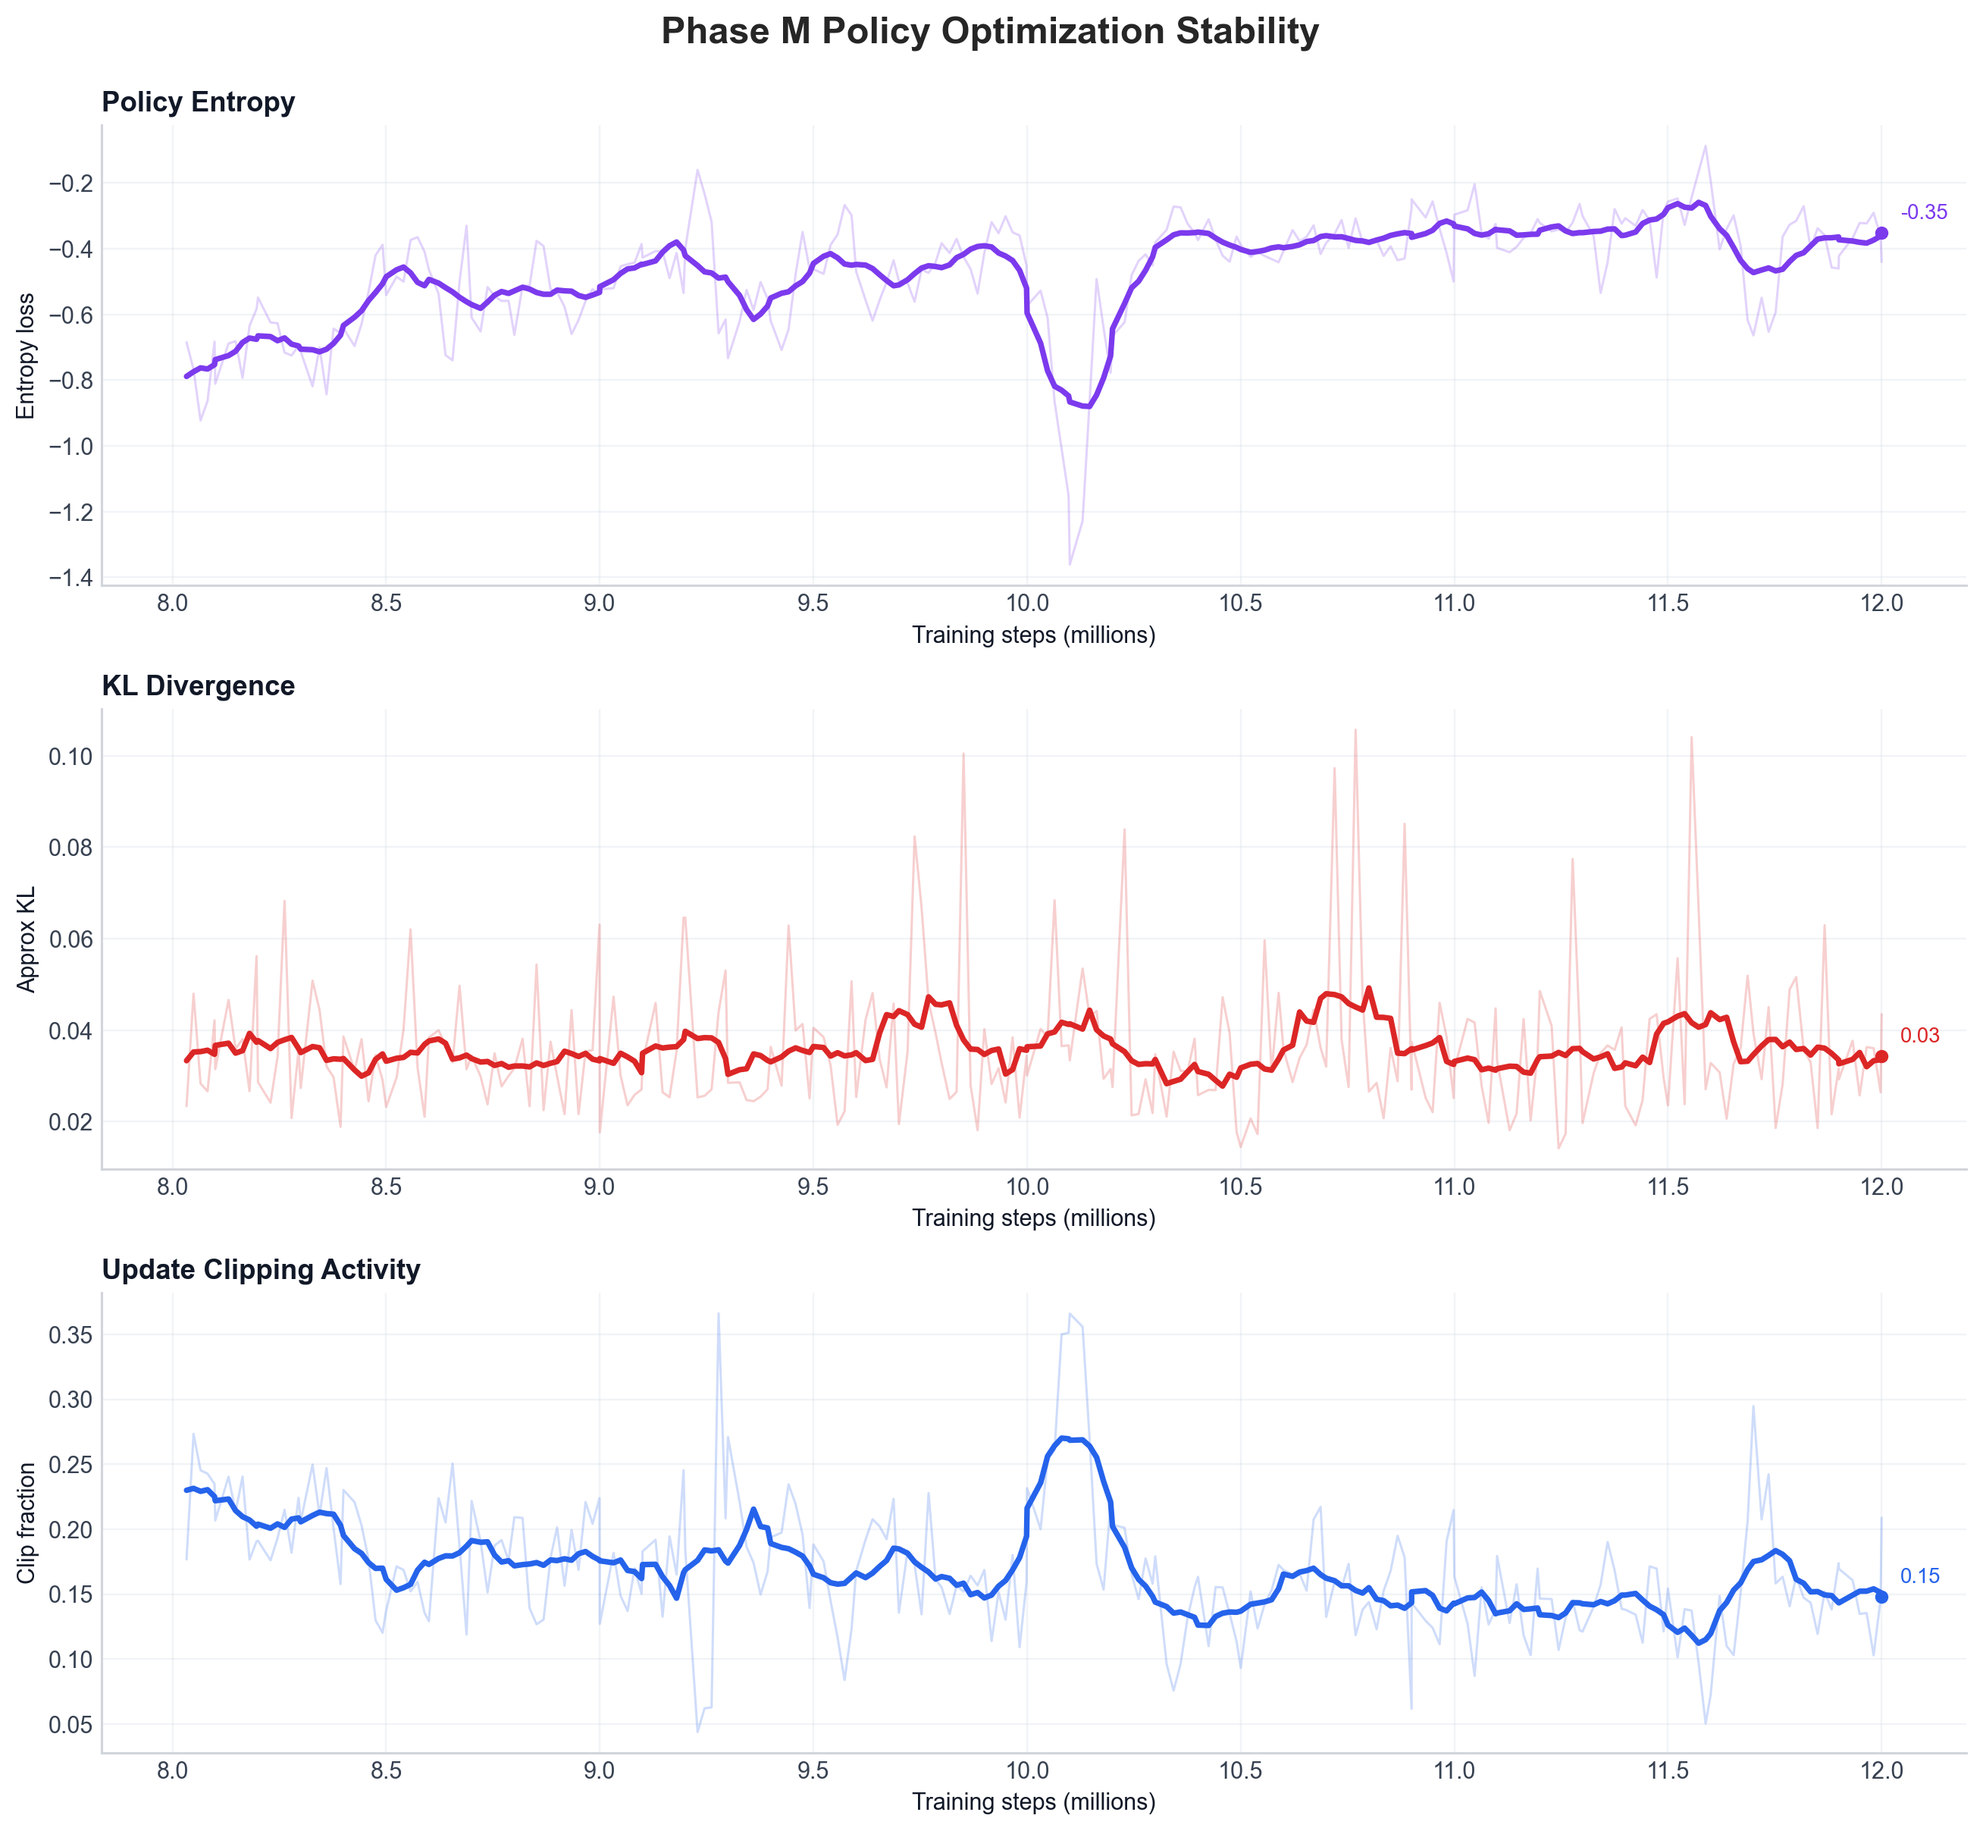
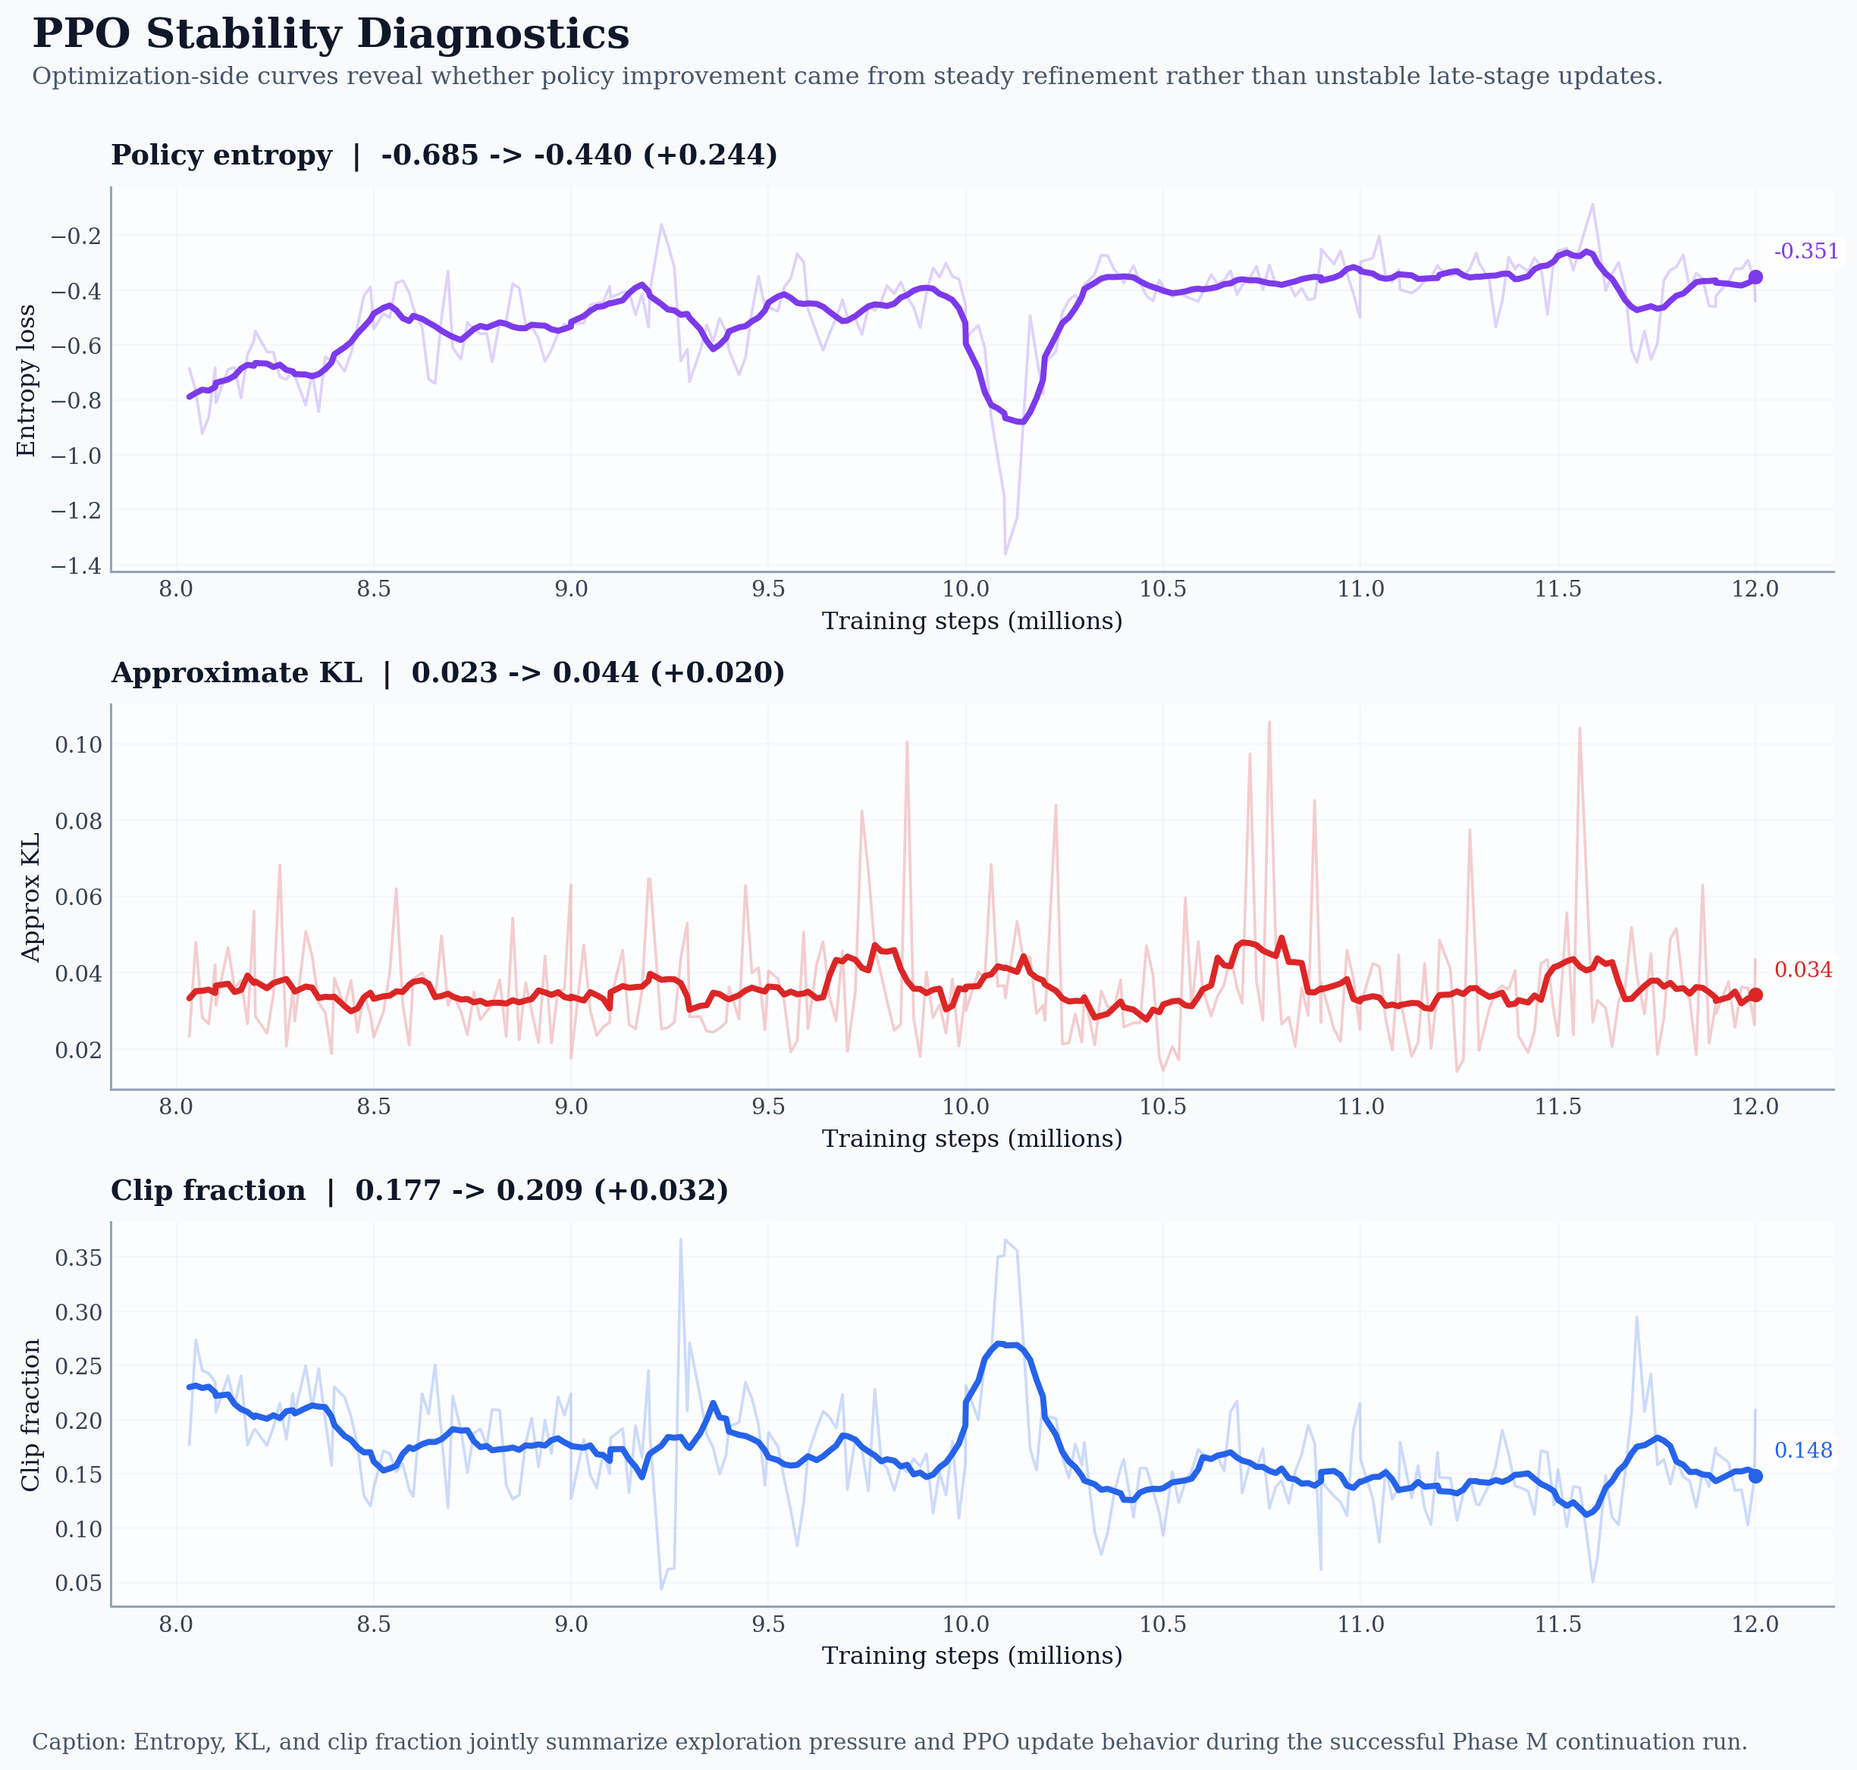
updated the pulled tensorboard graph script to create much more detailed training graphs.

diff --git a/scripts/export_training_graphs.py b/scripts/export_training_graphs.py
@@ -18,6 +18,8 @@ from tensorboard.backend.event_processing.event_accumulator import EventAccumula
 
 DEFAULT_LOGDIR = Path("results/multiseed_s1_M/logs/PPO_0")
 DEFAULT_OUTPUT = Path("training_graphs")
+FIGURE_FACE = "#f8fafc"
+AXES_FACE = "#fcfdff"
 
 
 def parse_args() -> argparse.Namespace:
@@ -61,12 +63,35 @@ def smooth_values(frame: pd.DataFrame, window: int) -> pd.Series:
     return frame["value"].rolling(effective_window, min_periods=1, center=True).mean()
 
 
+def summarize_series(frame: pd.DataFrame) -> tuple[float, float, float, float]:
+    start_step = frame["step_millions"].iloc[0]
+    end_step = frame["step_millions"].iloc[-1]
+    start_value = frame["value"].iloc[0]
+    end_value = frame["value"].iloc[-1]
+    return start_step, end_step, start_value, end_value
+
+
+def format_delta(start_value: float, end_value: float, *, percent: bool = False) -> str:
+    if percent:
+        return f"{end_value - start_value:+.1%}"
+    return f"{end_value - start_value:+.2f}"
+
+
+def add_figure_text(fig: plt.Figure, title: str, subtitle: str, caption: str) -> None:
+    fig.text(0.06, 0.975, title, ha="left", va="top", fontsize=18, fontweight="bold", color="#0f172a")
+    fig.text(0.06, 0.948, subtitle, ha="left", va="top", fontsize=10.5, color="#475569")
+    fig.text(0.06, 0.028, caption, ha="left", va="bottom", fontsize=9.5, color="#475569")
+
+
 def style_axis(ax: plt.Axes, ylabel: str, xlabel: str = "Training steps (millions)") -> None:
     ax.set_ylabel(ylabel)
     ax.set_xlabel(xlabel)
-    ax.grid(True, alpha=0.25)
+    ax.grid(True, alpha=0.22, linewidth=0.8)
     ax.spines["top"].set_visible(False)
     ax.spines["right"].set_visible(False)
+    ax.spines["left"].set_color("#94a3b8")
+    ax.spines["bottom"].set_color("#94a3b8")
+    ax.tick_params(length=0)
 
 
 def plot_scalar(
@@ -79,24 +104,27 @@ def plot_scalar(
     window: int,
     raw_alpha: float = 0.22,
     add_final_label: bool = True,
+    value_format: str = ".2f",
 ) -> None:
     smoothed = smooth_values(frame, window)
-    ax.plot(frame["step_millions"], frame["value"], color=color, alpha=raw_alpha, linewidth=1.0)
-    ax.plot(frame["step_millions"], smoothed, color=color, linewidth=2.4)
-    ax.set_title(title, loc="left", fontsize=12, fontweight="bold")
+    ax.set_facecolor(AXES_FACE)
+    ax.plot(frame["step_millions"], frame["value"], color=color, alpha=raw_alpha, linewidth=1.2)
+    ax.plot(frame["step_millions"], smoothed, color=color, linewidth=2.6)
+    ax.set_title(title, loc="left", fontsize=12, fontweight="bold", pad=10)
     style_axis(ax, ylabel)
 
     if add_final_label:
         final_x = frame["step_millions"].iloc[-1]
         final_y = smoothed.iloc[-1]
-        ax.scatter([final_x], [final_y], color=color, s=22, zorder=3)
+        ax.scatter([final_x], [final_y], color=color, s=28, zorder=3)
         ax.annotate(
-            f"{final_y:.2f}",
+            format(final_y, value_format),
             xy=(final_x, final_y),
-            xytext=(8, 6),
+            xytext=(8, 8),
             textcoords="offset points",
             fontsize=9,
             color=color,
+            bbox={"boxstyle": "round,pad=0.25", "facecolor": "white", "edgecolor": "none", "alpha": 0.9},
         )
 
 
@@ -107,7 +135,7 @@ def require_tags(frames: dict[str, pd.DataFrame], tags: list[str]) -> None:
 
 
 def save_figure(fig: plt.Figure, output_path: Path, dpi: int) -> None:
-    fig.tight_layout()
+    fig.tight_layout(rect=(0.04, 0.06, 0.98, 0.92))
     fig.savefig(output_path, dpi=dpi, bbox_inches="tight")
     plt.close(fig)
 
@@ -117,34 +145,46 @@ def make_progress_overview(frames: dict[str, pd.DataFrame], output_dir: Path, wi
     require_tags(frames, tags)
 
     fig, axes = plt.subplots(3, 1, figsize=(12, 11), sharex=False)
-    fig.suptitle("Phase M Training Progress Overview", fontsize=16, fontweight="bold", y=0.995)
+    fig.set_facecolor(FIGURE_FACE)
+    start_step, end_step, start_flag, end_flag = summarize_series(frames["mario/flag_capture_rate"])
+    _, _, start_x, end_x = summarize_series(frames["mario/mean_x_pos"])
+    _, _, start_reward, end_reward = summarize_series(frames["rollout/ep_rew_mean"])
+    add_figure_text(
+        fig,
+        "Phase M Learning Curves",
+        f"Seed 1 resume window from {start_step:.1f}M to {end_step:.1f}M steps; smoothed traces emphasize trend while preserving raw variance.",
+        "Caption: Task-facing metrics improve together across the final 4M training steps, with higher flag completion, deeper stage penetration, and stronger episodic return.",
+    )
 
     plot_scalar(
         axes[0],
         frames["mario/flag_capture_rate"],
-        title="Task Success Trend",
+        title=f"Flag capture rate  |  {start_flag:.1%} -> {end_flag:.1%} ({format_delta(start_flag, end_flag, percent=True)})",
         ylabel="Flag capture rate",
         color="#0f766e",
         window=window,
+        value_format=".0%",
     )
     axes[0].yaxis.set_major_formatter(PercentFormatter(xmax=1.0))
 
     plot_scalar(
         axes[1],
         frames["mario/mean_x_pos"],
-        title="Task Progression",
+        title=f"Mean terminal x-position  |  {start_x:.0f} -> {end_x:.0f} ({end_x - start_x:+.0f})",
         ylabel="Mean final x position",
         color="#1d4ed8",
         window=window,
+        value_format=".0f",
     )
 
     plot_scalar(
         axes[2],
         frames["rollout/ep_rew_mean"],
-        title="Return Improvement",
+        title=f"Episode reward  |  {start_reward:.0f} -> {end_reward:.0f} ({end_reward - start_reward:+.0f})",
         ylabel="Episode reward",
         color="#b45309",
         window=window,
+        value_format=".0f",
     )
 
     save_figure(fig, output_dir / "01_phase_m_progress_overview.png", dpi)
@@ -155,33 +195,45 @@ def make_policy_stability(frames: dict[str, pd.DataFrame], output_dir: Path, win
     require_tags(frames, tags)
 
     fig, axes = plt.subplots(3, 1, figsize=(12, 11), sharex=False)
-    fig.suptitle("Phase M Policy Optimization Stability", fontsize=16, fontweight="bold", y=0.995)
+    fig.set_facecolor(FIGURE_FACE)
+    _, _, start_ent, end_ent = summarize_series(frames["train/entropy_loss"])
+    _, _, start_kl, end_kl = summarize_series(frames["train/approx_kl"])
+    _, _, start_clip, end_clip = summarize_series(frames["train/clip_fraction"])
+    add_figure_text(
+        fig,
+        "PPO Stability Diagnostics",
+        "Optimization-side curves reveal whether policy improvement came from steady refinement rather than unstable late-stage updates.",
+        "Caption: Entropy, KL, and clip fraction jointly summarize exploration pressure and PPO update behavior during the successful Phase M continuation run.",
+    )
 
     plot_scalar(
         axes[0],
         frames["train/entropy_loss"],
-        title="Policy Entropy",
+        title=f"Policy entropy  |  {start_ent:.3f} -> {end_ent:.3f} ({end_ent - start_ent:+.3f})",
         ylabel="Entropy loss",
         color="#7c3aed",
         window=window,
+        value_format=".3f",
     )
 
     plot_scalar(
         axes[1],
         frames["train/approx_kl"],
-        title="KL Divergence",
+        title=f"Approximate KL  |  {start_kl:.3f} -> {end_kl:.3f} ({end_kl - start_kl:+.3f})",
         ylabel="Approx KL",
         color="#dc2626",
         window=window,
+        value_format=".3f",
     )
 
     plot_scalar(
         axes[2],
         frames["train/clip_fraction"],
-        title="Update Clipping Activity",
+        title=f"Clip fraction  |  {start_clip:.3f} -> {end_clip:.3f} ({end_clip - start_clip:+.3f})",
         ylabel="Clip fraction",
         color="#2563eb",
         window=window,
+        value_format=".3f",
     )
 
     save_figure(fig, output_dir / "02_phase_m_policy_stability.png", dpi)
@@ -192,44 +244,58 @@ def make_collapse_diagnostics(frames: dict[str, pd.DataFrame], output_dir: Path,
     require_tags(frames, tags)
 
     fig, axes = plt.subplots(4, 1, figsize=(12, 13), sharex=False)
-    fig.suptitle("Phase M Collapse Diagnostics", fontsize=16, fontweight="bold", y=0.995)
+    fig.set_facecolor(FIGURE_FACE)
+    _, _, start_entropy, end_entropy = summarize_series(frames["collapse/entropy"])
+    _, _, start_flag, end_flag = summarize_series(frames["collapse/flag_rate"])
+    _, _, start_vel, end_vel = summarize_series(frames["collapse/entropy_vel_rolling"])
+    _, _, start_klfrac, end_klfrac = summarize_series(frames["collapse/kl_clip_frac"])
+    add_figure_text(
+        fig,
+        "Entropy-Collapse Monitoring",
+        "Custom diagnostics track whether strong returns are being purchased by brittle entropy collapse, a recurring failure mode in long Mario PPO runs.",
+        "Caption: The collapse monitor complements standard PPO metrics by exposing entropy drift, KL threshold pressure, and task success in the same diagnostic frame.",
+    )
 
     plot_scalar(
         axes[0],
         frames["collapse/entropy"],
-        title="Captured Entropy Signal",
+        title=f"Captured entropy  |  {start_entropy:.3f} -> {end_entropy:.3f} ({end_entropy - start_entropy:+.3f})",
         ylabel="Entropy",
         color="#9333ea",
         window=window,
+        value_format=".3f",
     )
 
     plot_scalar(
         axes[1],
         frames["collapse/flag_rate"],
-        title="Diagnostic Flag Rate",
+        title=f"Diagnostic flag rate  |  {start_flag:.1%} -> {end_flag:.1%} ({format_delta(start_flag, end_flag, percent=True)})",
         ylabel="Flag rate",
         color="#059669",
         window=window,
+        value_format=".0%",
     )
     axes[1].yaxis.set_major_formatter(PercentFormatter(xmax=1.0))
 
     plot_scalar(
         axes[2],
         frames["collapse/entropy_vel_rolling"],
-        title="Rolling Entropy Velocity",
+        title=f"Rolling entropy velocity  |  {start_vel:.3f} -> {end_vel:.3f} ({end_vel - start_vel:+.3f})",
         ylabel="Velocity",
         color="#ea580c",
         window=window,
+        value_format=".3f",
     )
     axes[2].axhline(0.0, color="#6b7280", linestyle="--", linewidth=1.0, alpha=0.7)
 
     plot_scalar(
         axes[3],
         frames["collapse/kl_clip_frac"],
-        title="KL Over-Threshold Fraction",
+        title=f"KL over-threshold fraction  |  {start_klfrac:.3f} -> {end_klfrac:.3f} ({end_klfrac - start_klfrac:+.3f})",
         ylabel="KL clip fraction",
         color="#0f766e",
         window=window,
+        value_format=".3f",
     )
 
     save_figure(fig, output_dir / "03_phase_m_collapse_diagnostics.png", dpi)
@@ -240,26 +306,36 @@ def make_eval_curve(frames: dict[str, pd.DataFrame], output_dir: Path, window: i
     require_tags(frames, tags)
 
     fig, axes = plt.subplots(2, 1, figsize=(12, 8.5), sharex=False)
-    fig.suptitle("Phase M EvalCallback Trends", fontsize=16, fontweight="bold", y=0.995)
+    fig.set_facecolor(FIGURE_FACE)
+    _, _, start_reward, end_reward = summarize_series(frames["eval/mean_reward"])
+    _, _, start_length, end_length = summarize_series(frames["eval/mean_ep_length"])
+    add_figure_text(
+        fig,
+        "Deterministic EvalCallback Snapshot",
+        "This figure is useful for internal comparison, but it should be interpreted as a training-time checkpoint signal rather than the final stochastic benchmark.",
+        "Caption: EvalCallback metrics here reflect deterministic policy rollouts; the final 87.5% project result comes from separate stochastic evaluation of the 12.0M checkpoint.",
+    )
 
     plot_scalar(
         axes[0],
         frames["eval/mean_reward"],
-        title="Periodic Evaluation Reward",
+        title=f"Periodic evaluation reward  |  {start_reward:.0f} -> {end_reward:.0f} ({end_reward - start_reward:+.0f})",
         ylabel="Mean reward",
         color="#0284c7",
         window=max(5, window // 2),
         raw_alpha=0.12,
+        value_format=".0f",
     )
 
     plot_scalar(
         axes[1],
         frames["eval/mean_ep_length"],
-        title="Periodic Evaluation Episode Length",
+        title=f"Periodic evaluation episode length  |  {start_length:.0f} -> {end_length:.0f} ({end_length - start_length:+.0f})",
         ylabel="Mean episode length",
         color="#ca8a04",
         window=max(5, window // 2),
         raw_alpha=0.12,
+        value_format=".0f",
     )
 
     save_figure(fig, output_dir / "04_phase_m_eval_callback.png", dpi)
@@ -280,14 +356,22 @@ def configure_plot_style() -> None:
     plt.style.use("seaborn-v0_8-whitegrid")
     plt.rcParams.update(
         {
-            "figure.facecolor": "white",
-            "axes.facecolor": "white",
-            "axes.edgecolor": "#d1d5db",
-            "axes.labelcolor": "#111827",
-            "axes.titlecolor": "#111827",
+            "figure.facecolor": FIGURE_FACE,
+            "axes.facecolor": AXES_FACE,
+            "savefig.facecolor": FIGURE_FACE,
+            "axes.edgecolor": "#cbd5e1",
+            "axes.labelcolor": "#0f172a",
+            "axes.titlecolor": "#0f172a",
             "xtick.color": "#374151",
             "ytick.color": "#374151",
-            "grid.color": "#cbd5e1",
+            "grid.color": "#dbe4ee",
+            "font.family": "serif",
+            "font.serif": ["DejaVu Serif", "Times New Roman", "Times"],
+            "axes.titleweight": "bold",
+            "axes.labelsize": 10.5,
+            "axes.titlesize": 12,
+            "xtick.labelsize": 9.5,
+            "ytick.labelsize": 9.5,
             "font.size": 10,
         }
     )
